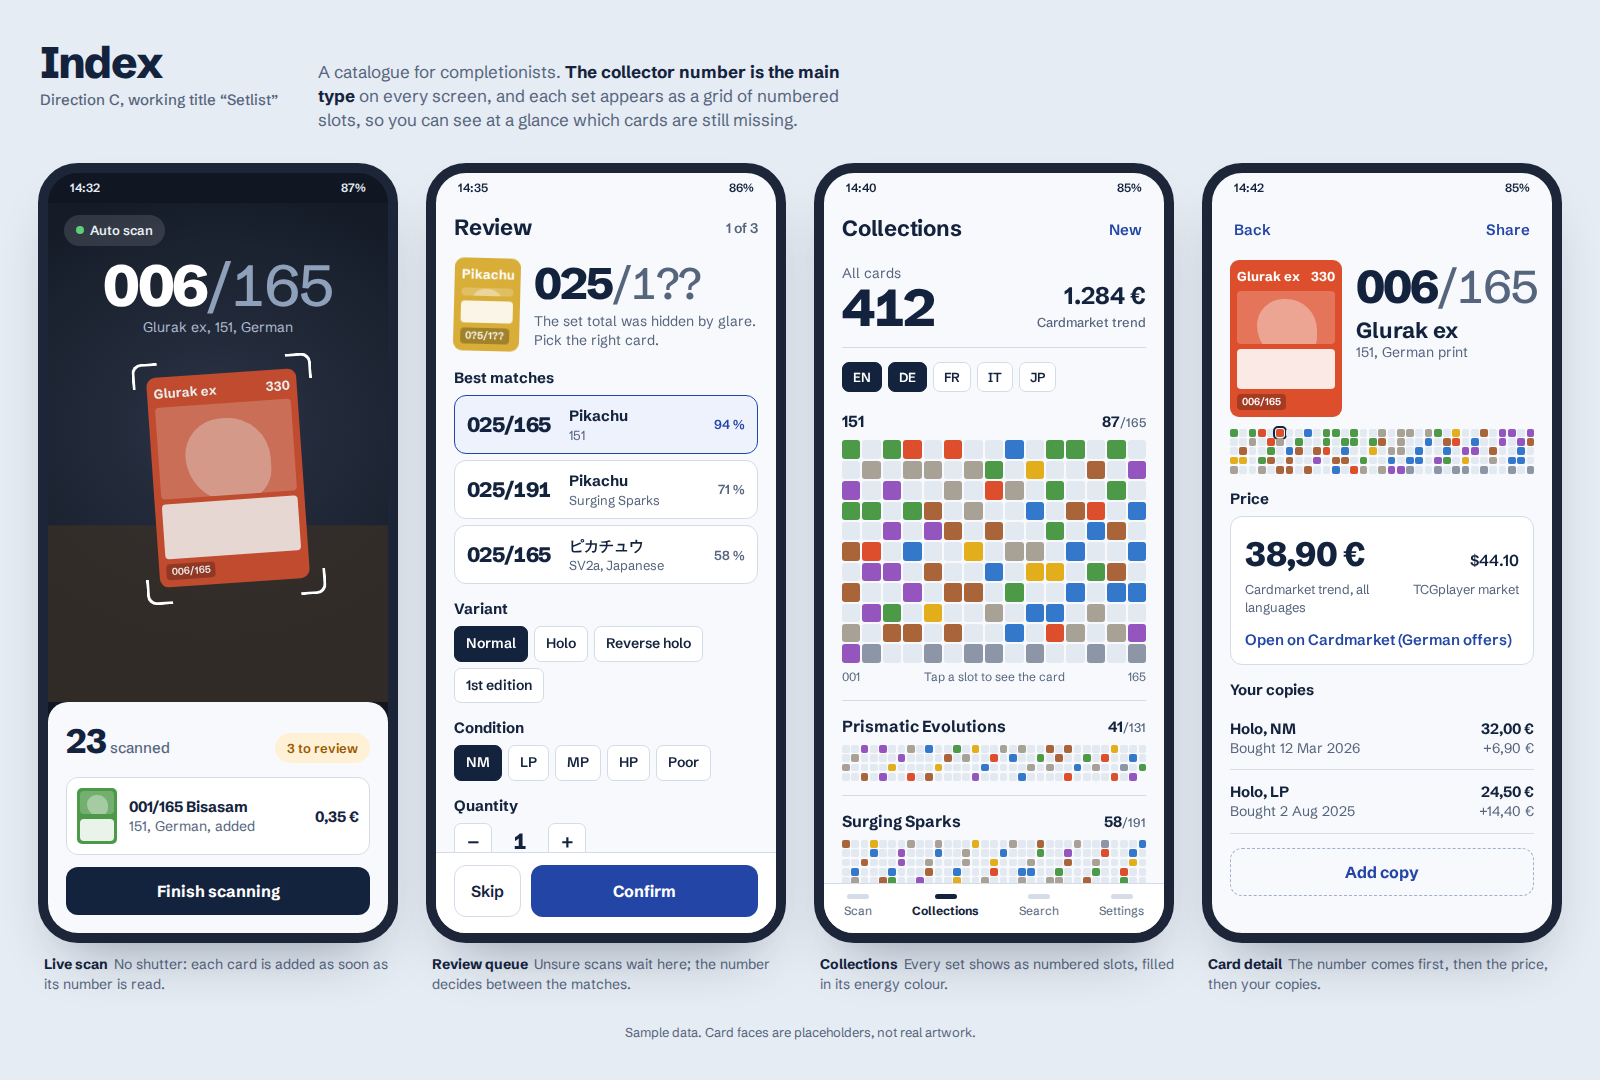
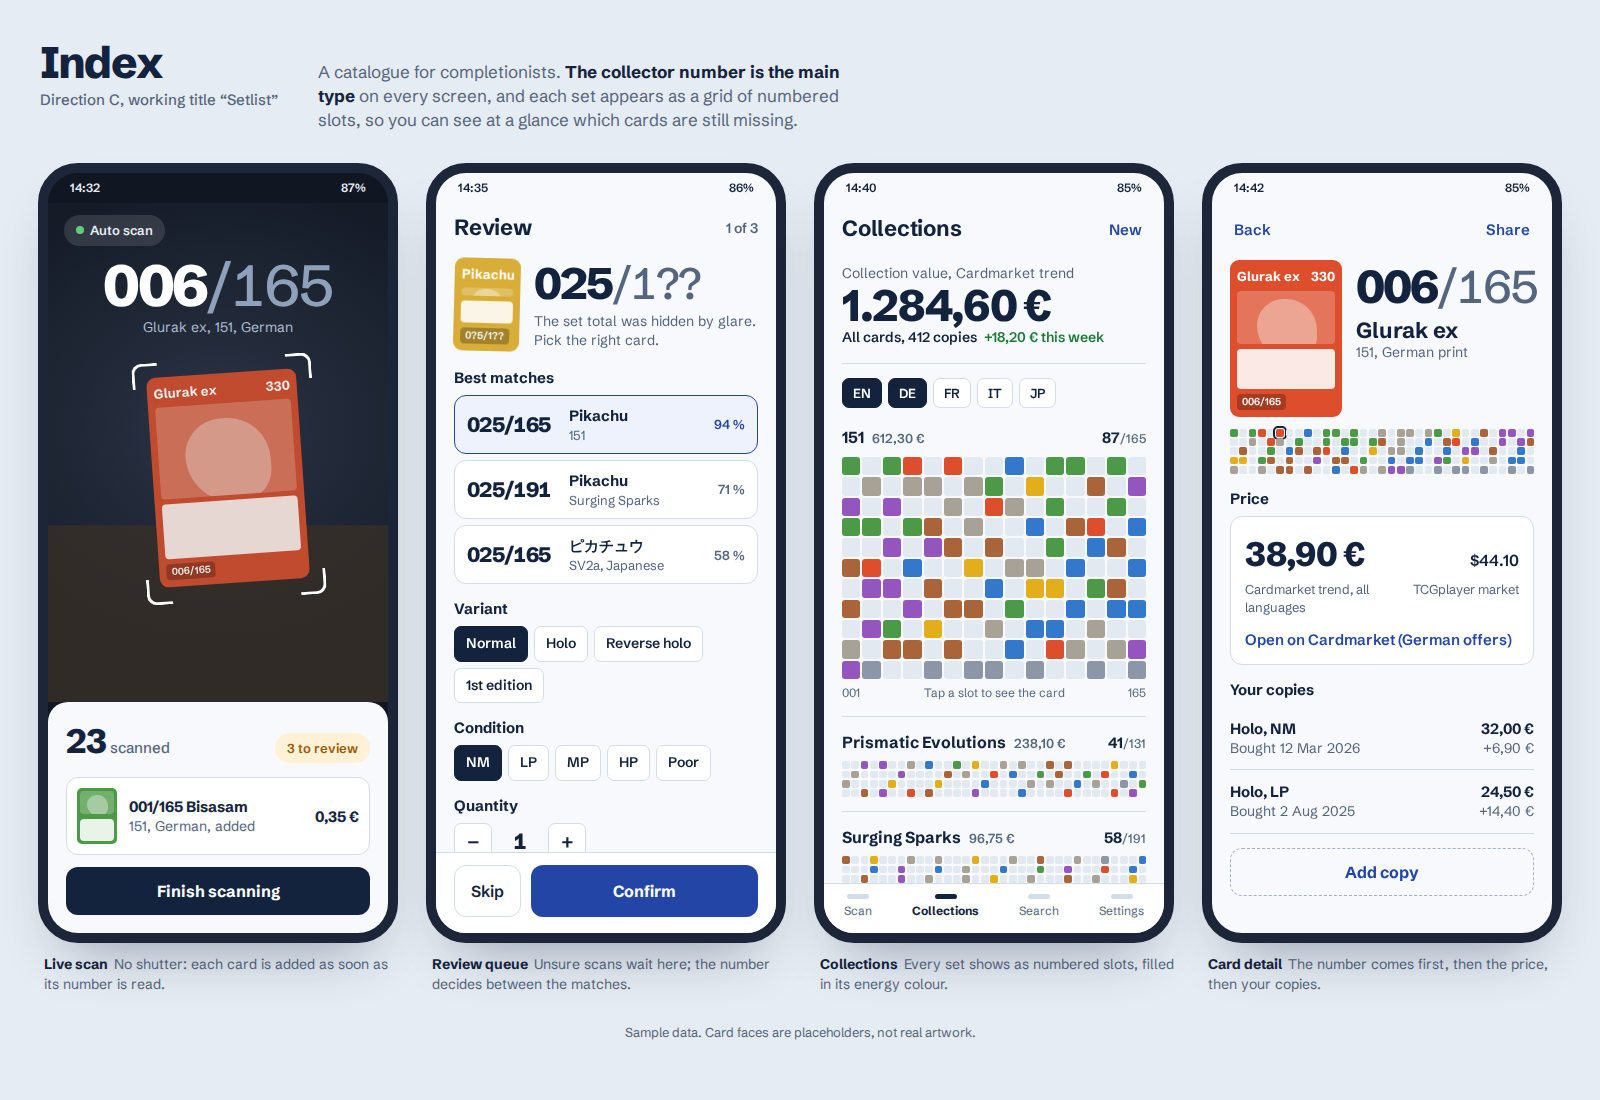
Choose Index UI direction with value header from Slab
Adds the collection value header and per-set values to the Index
mockup and records the choice as ADR 0010.

Refs #22

diff --git a/design/mockups/c-index.html b/design/mockups/c-index.html
@@ -110,8 +110,11 @@ h3{font-size:15px;font-weight:700;margin:14px 0 7px}
 .primary{flex:1;background:var(--action);color:var(--action-ink);border:0;border-radius:var(--r-md);padding:14px;font-weight:700;font-size:16px}
 .secondary{background:none;border:1.5px solid var(--line);border-radius:var(--r-md);padding:14px 16px;font-weight:600}
 /* collections */
-.total{display:flex;justify-content:space-between;align-items:flex-end;padding:4px 0 16px;border-bottom:1px solid var(--line)}
-.total .num{font-size:52px}
+.total{padding:4px 0 16px;border-bottom:1px solid var(--line)}
+.total .num{font-size:44px;margin:2px 0;font-variant-numeric:proportional-nums;letter-spacing:-.03em}
+.total .sum{color:var(--ink);font-weight:600}
+.up{color:#1F7A3A;font-weight:600;margin-left:4px}
+.set header .val{font-size:13px;font-weight:600;color:var(--muted);margin-left:8px}
 .total p{font-size:14px;color:var(--muted)}
 .total .eur{text-align:right;font-size:24px;font-weight:700}
 .total .eur small{display:block;font-size:13px;font-weight:500;color:var(--muted)}
@@ -222,23 +225,24 @@ h3{font-size:15px;font-weight:700;margin:14px 0 7px}
   <div class="scroll">
     <div class="top"><h2>Collections</h2><button class="ghost">New</button></div>
     <div class="total">
-      <div><p>All cards</p><div class="num">412</div></div>
-      <div class="eur">1.284 €<small>Cardmarket trend</small></div>
+      <p>Collection value, Cardmarket trend</p>
+      <div class="num">1.284,60 €</div>
+      <p class="sum">All cards, 412 copies <span class="up">+18,20 € this week</span></p>
     </div>
     <div class="langs" data-group="lang" data-multi>
       <button class="chip" aria-pressed="true">EN</button><button class="chip" aria-pressed="true">DE</button>
       <button class="chip" aria-pressed="false">FR</button><button class="chip" aria-pressed="false">IT</button><button class="chip" aria-pressed="false">JP</button>
     </div>
     <section class="set">
-      <header><b>151</b><span>87<small>/165</small></span></header>
+      <header><b>151<span class="val">612,30 €</span></b><span>87<small>/165</small></span></header>
       <div class="slots" id="g151" aria-label="151: 87 of 165 owned"></div>
       <div class="legend"><span>001</span><span>Tap a slot to see the card</span><span>165</span></div>
     </section>
-    <section class="set"><header><b>Prismatic Evolutions</b><span>41<small>/131</small></span></header><div class="slots thin" data-total="131" data-own="41"></div></section>
-    <section class="set"><header><b>Surging Sparks</b><span>58<small>/191</small></span></header><div class="slots thin" data-total="191" data-own="58"></div></section>
-    <section class="set"><header><b>Pitch Black</b><span>12<small>/120</small></span></header><div class="slots thin" data-total="120" data-own="12"></div></section>
+    <section class="set"><header><b>Prismatic Evolutions<span class="val">238,10 €</span></b><span>41<small>/131</small></span></header><div class="slots thin" data-total="131" data-own="41"></div></section>
+    <section class="set"><header><b>Surging Sparks<span class="val">96,75 €</span></b><span>58<small>/191</small></span></header><div class="slots thin" data-total="191" data-own="58"></div></section>
+    <section class="set"><header><b>Pitch Black<span class="val">41,20 €</span></b><span>12<small>/120</small></span></header><div class="slots thin" data-total="120" data-own="12"></div></section>
     <p class="sub">Japanese sets</p>
-    <section class="set"><header><b>SV2a</b><span>19<small>/165</small></span></header><div class="slots thin" data-total="165" data-own="19"></div></section>
+    <section class="set"><header><b>SV2a<span class="val">188,40 €</span></b><span>19<small>/165</small></span></header><div class="slots thin" data-total="165" data-own="19"></div></section>
     <p class="sub">Your collections</p>
     <div class="custom"><div><b>Trade binder</b><span>36 cards</span></div><span>212 €</span></div>
   </div>

diff --git a/docs/adr/0010-ui-direction-index.md b/docs/adr/0010-ui-direction-index.md
@@ -1,0 +1,23 @@
+# 0010. UI direction: Index, with a value header
+
+Status: accepted (2026-11-16)
+
+## Context
+
+Four clickable mockup directions were compared (`design/mockups/`): A Binder, B Slab, C Index and D Booster.
+
+## Decision
+
+Direction **C, Index**:
+
+- The collector number (e.g. `006/165`) is the main type on the scan, review and detail screens.
+- Each set is a grid with one slot per card, filled with the card's energy color when owned, so missing cards show at a glance.
+- The palette is cool and light with ink-blue text; energy colors are used only for data. The typeface is Schibsted Grotesk.
+
+From direction **B, Slab**: the collections screen opens with the collection's total value and its weekly change, and each set shows its value.
+
+## Alternatives considered
+
+- Binder: sets as 3×3 sleeve pages. A 165-card set takes 19 pages.
+- Slab: cards in graded-card cases, value-first.
+- Booster: playful pack-opening with stamp badges.
